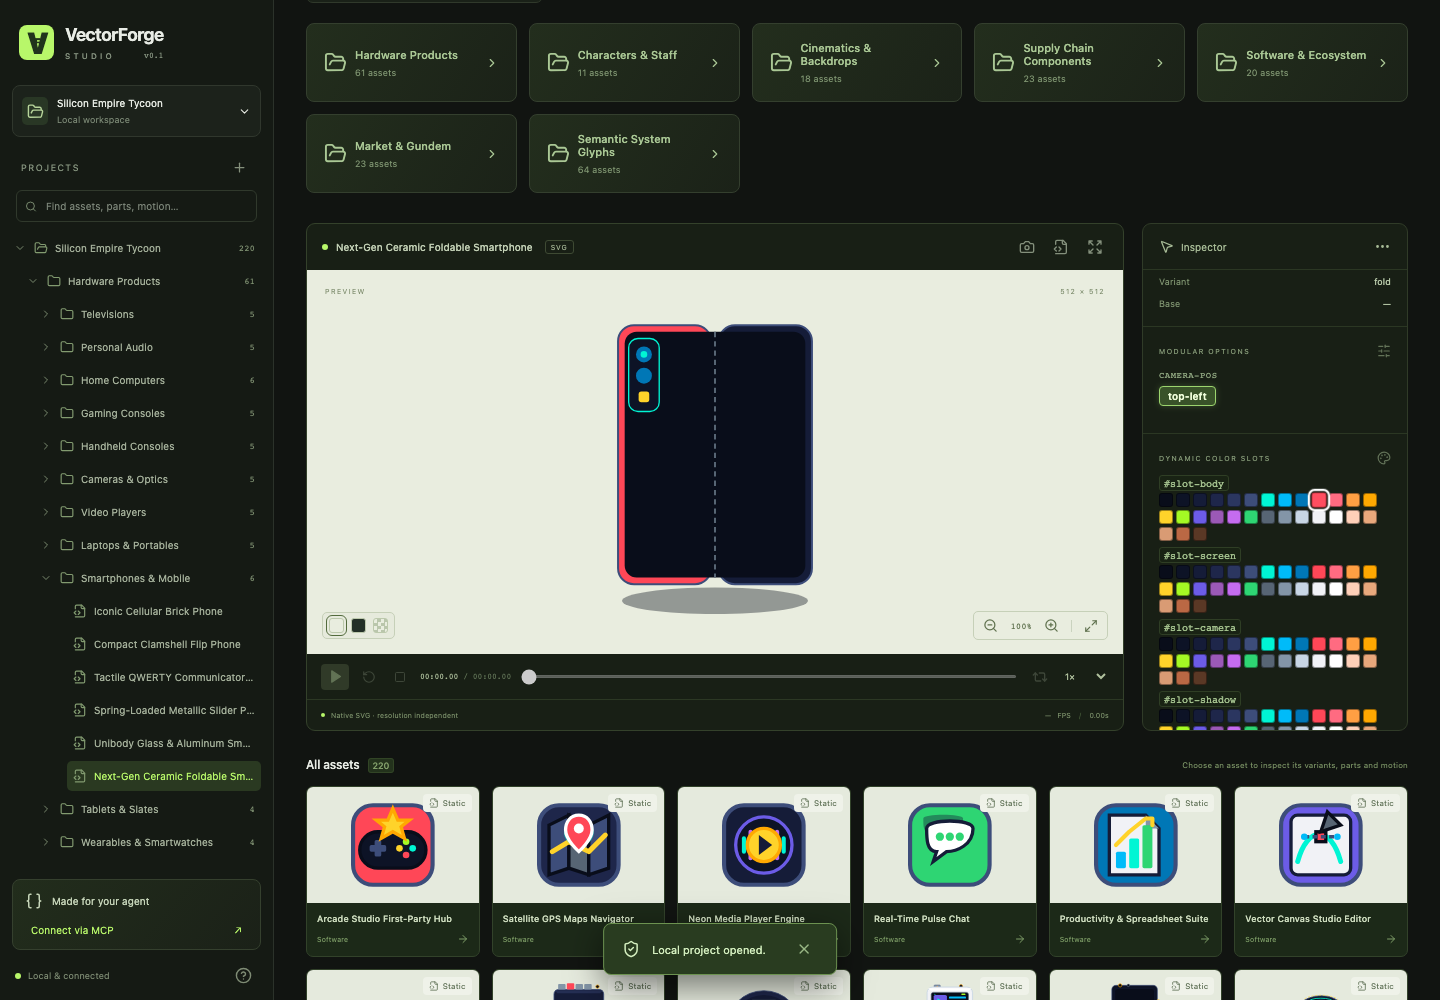
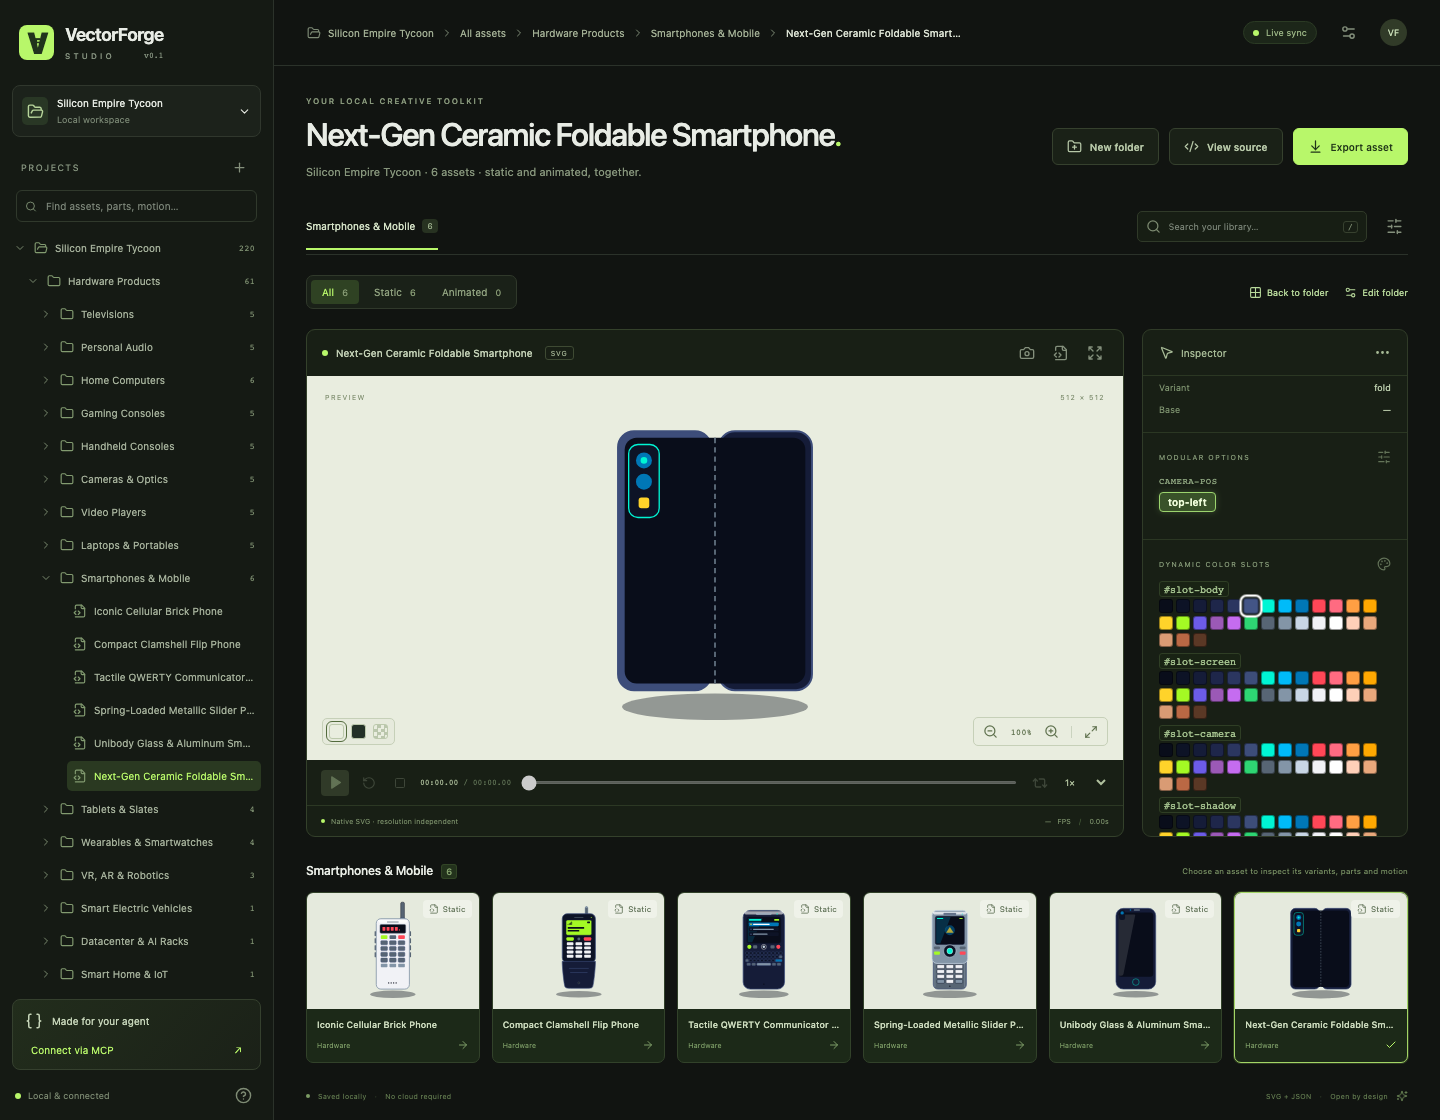
docs: refine studio showcase screenshots with full-frame collection views

diff --git a/README.md b/README.md
@@ -17,20 +17,25 @@ Everything runs locally. No API key, cloud account, subscription, database or pr
 
 VectorForge scales from a small component set to full game and application libraries with hundreds of cohesive static SVGs, customizable hardware variants, articulated character rigs, and cinematic backdrops.
 
-### Modular Hardware, Color Slots & Software Icons
-Inspect and customize modular SVG variants and live color slots (`#slot-body`, `#slot-screen`, `#slot-camera`) directly inside the Studio Inspector:
+### Modular Hardware Variants & Dynamic Color Slots
+Inspect and customize modular SVG variants (`camera-pos`) and live color slots (`#slot-body`, `#slot-screen`, `#slot-camera`, `#slot-shadow`) across product families directly inside the Studio Inspector:
 
 ![Customizable Hardware and Dynamic Color Slots](docs/images/showcase-customizable-hardware.png)
 
-### Articulated Characters, Rivals, Staff & Device Families
-Manage static product lines alongside rigged, multi-clip animated characters in one unified project tree:
+### Articulated Characters, Rivals & Studio Staff
+Manage rigged, multi-clip animated characters with state machines and deterministic playback alongside static assets in one unified project tree:
 
-![Animated Characters and Hardware Families](docs/images/showcase-characters-and-devices.png)
+![Animated Characters and Staff Library](docs/images/showcase-characters-and-devices.png)
 
-### Cinematic Scenes, Backdrops & System Glyphs
-Preview multi-layered environment backdrops, event cutscenes, hardware components, and UI glyphs with instant visual feedback:
+### Cinematic Scenes, Cutscenes & Office Environments
+Preview multi-layered environment backdrops and event cutscenes with instant visual feedback:
 
-![Cinematic Scenes and Component Library](docs/images/showcase-cinematics-and-icons.png)
+![Cinematic Scenes and Office Environments](docs/images/showcase-cinematics-and-icons.png)
+
+### Hardware Components, Optics & Format Badges
+Organize deep nested folder collections for processors, sensors, display panels, batteries, cooling modules, and format badges:
+
+![Supply Chain Components and Format Badges](docs/images/showcase-components-and-glyphs.png)
 
 > **Note:** The production screenshots above illustrate a 220-asset game library created with VectorForge. Only the clean `examples/generic-demo` starter project is bundled in this repository; any projects or assets you create locally stay ignored by Git so your repository remains clean.
 
